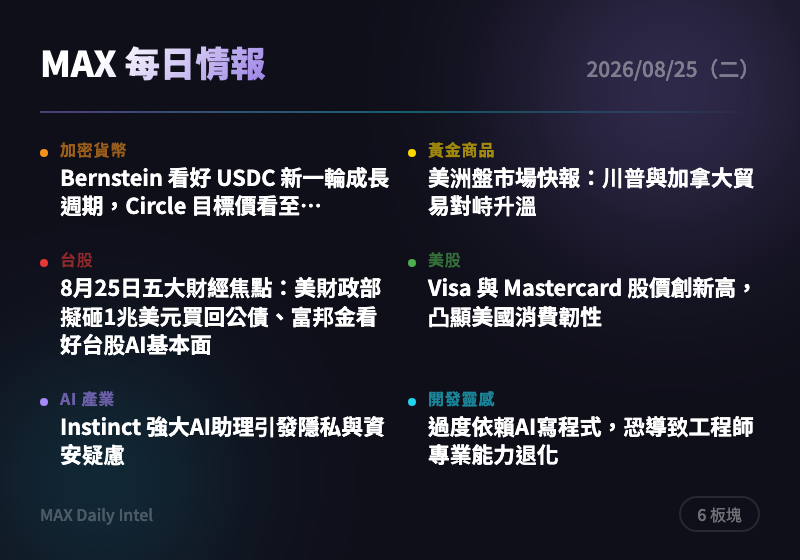
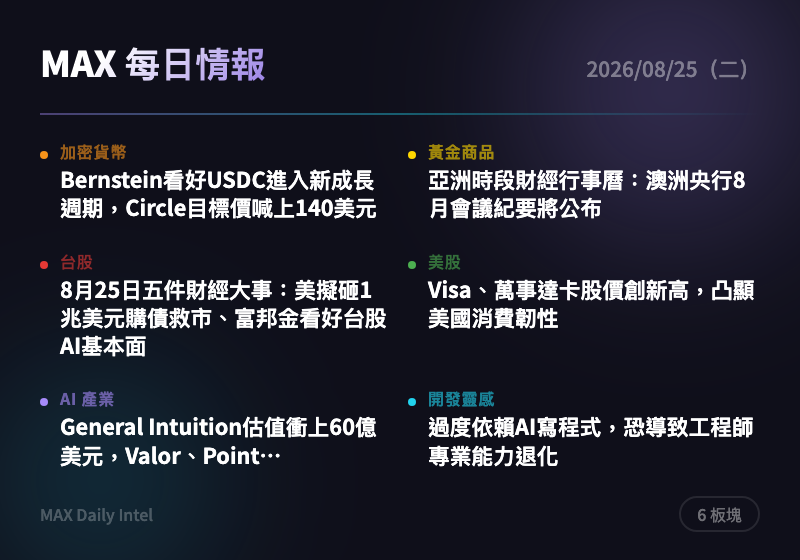
intel: 2026-08-25 每日情報自動生成

diff --git a/docs/2026-08-25.html b/docs/2026-08-25.html
@@ -318,14 +318,14 @@
     </div>
     <div class="news-card">
       <div class="source">CoinTelegraph</div>
-      <h3><a href="https://cointelegraph.com/news/bernstein-circle-usdc-growth-140-price-target?utm_source=rss_feed&utm_medium=rss&utm_campaign=rss_partner_inbound" target="_blank" rel="noopener">Bernstein 看好 USDC 新一輪成長週期，Circle 目標價看至140美元</a></h3>
-      <div class="summary">Bernstein 指出 USDC 供給量七天內增加約20億美元，顯示交易活動升溫，帶動 Circle 股價上看空間。此為穩定幣賽道資金回流的訊號，顯示機構對穩定幣需求持續增溫。可留意 Circle (Circle) 股價後續評等調整動向。</div>
-      <div class="tags"><span class="tag">穩定幣</span><span class="tag">USDC</span><span class="tag">Circle</span></div>
+      <h3><a href="https://cointelegraph.com/news/bernstein-circle-usdc-growth-140-price-target?utm_source=rss_feed&utm_medium=rss&utm_campaign=rss_partner_inbound" target="_blank" rel="noopener">Bernstein看好USDC進入新成長週期，Circle目標價喊上140美元</a></h3>
+      <div class="summary">Bernstein分析指出，USDC供給量七天內增加約20億美元，交易活動明顯升溫，因此將Circle目標股價上修至140美元。此舉顯示華爾街對穩定幣龍頭的成長動能維持樂觀，即使監管法案（Clarity Act）未通過也不影響其成長路徑。可留意Circle（CRCL）股價後續評等調整帶動的波動。</div>
+      <div class="tags"><span class="tag">穩定幣</span><span class="tag">USDC</span><span class="tag">Circle</span><span class="tag">華爾街評等</span></div>
     </div>
     <div class="news-card">
       <div class="source">CoinDesk</div>
-      <h3><a href="https://www.coindesk.com/markets/2026/08/24/bitcoin-nears-usd80-000-but-analysts-say-the-next-pullback-will-be-key" target="_blank" rel="noopener">比特幣 (Bitcoin) 逼近8萬美元大關</a></h3>
-      <div class="summary">比特幣近期反彈強勁，價格逼近5月以來未見的8萬美元關卡。分析師警告，接下來若出現回檔，將是判斷這波多頭是否能延續的關鍵指標。建議留意成交量與短線支撐是否守穩，勿追高。</div>
+      <h3><a href="https://www.coindesk.com/markets/2026/08/24/bitcoin-nears-usd80-000-but-analysts-say-the-next-pullback-will-be-key" target="_blank" rel="noopener">比特幣逼近8萬美元，分析師：下一次回檔才是關鍵</a></h3>
+      <div class="summary">比特幣本週距離5月以來未見的8萬美元大關僅一步之遙，帶動市場情緒轉多。分析師提醒，真正考驗多頭是否站穩的，將是價格觸頂後的回檔幅度，而非單純衝高。若回檔守住關鍵支撐，才有機會確立新一輪多頭格局，建議留意短線獲利了結風險。</div>
       <div class="tags"><span class="tag">比特幣</span><span class="tag">加密貨幣</span><span class="tag">技術分析</span></div>
     </div>
   </section>
@@ -338,15 +338,15 @@
     </div>
     <div class="news-card">
       <div class="source">ForexLive</div>
-      <h3><a href="https://investinglive.com/news/investinglive-americas-market-news-wrap-trump-and-canada-trade-threats-0/" target="_blank" rel="noopener">美洲盤市場快報：川普與加拿大貿易對峙升溫</a></h3>
-      <div class="summary">川普 (Trump) 要求加拿大官員「乖乖聽話」，財政部長貝森特 (Bessent) 強調對伊朗的制裁涵蓋中國在內，川普同時揚言課徵50%關稅。多線地緣政治壓力同時升溫，牽動避險資產與匯市波動。建議關注黃金與美元指數在制裁與關稅消息下的連動反應。</div>
-      <div class="tags"><span class="tag">地緣政治</span><span class="tag">貿易戰</span><span class="tag">制裁</span></div>
+      <h3><a href="https://investinglive.com/news/economic-and-event-calendar-in-asia-25-august-2026-rba-august-meeting-minutes/" target="_blank" rel="noopener">亞洲時段財經行事曆：澳洲央行8月會議紀要將公布</a></h3>
+      <div class="summary">澳洲央行（RBA）將公布8月會議紀要，市場關注紀要中是否透露升息與暫停升息之間的辯論細節，這將是本週亞洲盤最重要的央行動向指標。除此之外，本週亞洲數據行事曆相對清淡。建議關注紀要內容對澳幣及區域利率預期的影響。</div>
+      <div class="tags"><span class="tag">央行</span><span class="tag">澳洲央行</span><span class="tag">利率</span><span class="tag">亞洲市場</span></div>
     </div>
     <div class="news-card">
       <div class="source">ForexLive</div>
-      <h3><a href="https://investinglive.com/news/is-the-us-canada-deal-the-classic-fifth-stage-of-trump-negotiations/" target="_blank" rel="noopener">美加貿易協議是否重演川普談判經典「第五階段」戲碼</a></h3>
-      <div class="summary">美國副總統范斯 (Vance) 表示美加貿易談判仍在進行，出現局勢緩和跡象。加拿大反關稅措施延至9月7日才生效，而川普 (Trump) 揚言的汽車零件關稅則排到明年1月，顯示雙方都不想把情勢逼到絕境。這暗示美加貿易緊張情勢短期內或有轉圜空間，市場可留意後續談判進展。</div>
-      <div class="tags"><span class="tag">地緣政治</span><span class="tag">貿易戰</span><span class="tag">美加關係</span></div>
+      <h3><a href="https://investinglive.com/news/investinglive-americas-market-news-wrap-trump-and-canada-trade-threats-0/" target="_blank" rel="noopener">美洲盤市場快訊：川普升高對加拿大貿易威脅</a></h3>
+      <div class="summary">川普公開批評加拿大官員言論強硬，同時財政部長貝森特強調對伊朗的制裁「無人能置身事外」，甚至暗示連中國都在範圍內；川普並揚言對加拿大汽車零件加徵50%關稅。地緣政治與貿易緊張同步升溫，是近期推升黃金避險買盤的主要背景。建議關注美加關係後續發展及對美元、黃金走勢的連動影響。</div>
+      <div class="tags"><span class="tag">地緣政治</span><span class="tag">貿易戰</span><span class="tag">美加關係</span><span class="tag">黃金避險</span></div>
     </div>
   </section>
 
@@ -358,15 +358,15 @@
     </div>
     <div class="news-card">
       <div class="source">經濟日報</div>
-      <h3><a href="https://money.udn.com/money/story/5607/9711854" target="_blank" rel="noopener">8月25日五大財經焦點：美財政部擬砸1兆美元買回公債、富邦金看好台股AI基本面</a></h3>
-      <div class="summary">美國財政部考慮動用近1兆美元國庫閒置資金買回長天期公債，市場預期將壓抑長債殖利率；同時富邦金總座韓蔚廷看好台股AI基本面，預期Q4高檔震盪機率大。兩則消息分別牽動全球利率環境與台股資金面，對台股短線情緒有正面支撐。可留意公債殖利率變化對資金行情的傳導效果。</div>
-      <div class="tags"><span class="tag">台股</span><span class="tag">美債</span><span class="tag">AI</span><span class="tag">金融股</span></div>
+      <h3><a href="https://money.udn.com/money/story/5607/9711854" target="_blank" rel="noopener">8月25日五件財經大事：美擬砸1兆美元購債救市、富邦金看好台股AI基本面</a></h3>
+      <div class="summary">今日焦點包括美國財政部評估動用近1兆美元TGA帳戶資金支撐長債買回計畫，以及富邦金總座韓蔚廷看好台股AI基本面，預期Q4指數高檔震盪機率大；另外英特爾先進封裝再添SK海力士HBM大單。多項消息同時牽動台股資金面與AI供應鏈類股情緒，建議留意美債政策對全球流動性的外溢效果，以及AI供應鏈個股是否受惠。</div>
+      <div class="tags"><span class="tag">台股</span><span class="tag">美債</span><span class="tag">AI供應鏈</span><span class="tag">半導體</span></div>
     </div>
     <div class="news-card">
       <div class="source">經濟日報</div>
-      <h3><a href="https://money.udn.com/money/story/5607/9711726" target="_blank" rel="noopener">台股大盤成交量創四個半月新低，摜破季線與45K關卡</a></h3>
-      <div class="summary">台股昨日大跌461點收44,762點，同時跌破季線與45,000點大關，成交值萎縮至6,562億元，創四個半月新低量。法人指出短線修正趨勢未變，需先回測月線44,144點支撐，量縮價跌反映市場觀望氣氛濃厚。建議短線保守，留意月線支撐是否守穩。</div>
-      <div class="tags"><span class="tag">台股</span><span class="tag">大盤</span><span class="tag">技術分析</span></div>
+      <h3><a href="https://money.udn.com/money/story/5607/9711726" target="_blank" rel="noopener">台股爆量急凍！大盤成交量創四個半月新低</a></h3>
+      <div class="summary">台股昨日開高走低大跌461點，收44,762點，同步跌破季線與45,000點大關，成交值萎縮至6,562億元，為四個半月來最低量，顯示市場觀望氣氛濃厚。法人研判短線或有反彈空間，但修正趨勢未變，後續可能回測月線44,144點支撐。建議留意量能是否持續萎縮，作為判斷反彈力道的重要指標。</div>
+      <div class="tags"><span class="tag">台股</span><span class="tag">大盤動能</span><span class="tag">成交量</span><span class="tag">技術面</span></div>
     </div>
   </section>
 
@@ -378,15 +378,15 @@
     </div>
     <div class="news-card">
       <div class="source">MarketWatch</div>
-      <h3><a href="https://www.marketwatch.com/story/visa-and-mastercard-shares-hit-fresh-records-underscoring-a-resilient-u-s-consumer-ef328548?mod=mw_rss_topstories" target="_blank" rel="noopener">Visa 與 Mastercard 股價創新高，凸顯美國消費韌性</a></h3>
-      <div class="summary">兩大信用卡巨頭股價雙雙創下歷史新高，反映整體消費支出依然強勁，即便消費者在選擇上更趨謹慎。此為美國經濟軟著陸的正面訊號，顯示消費端尚未出現明顯疲態。可作為觀察美國內需韌性的領先指標。</div>
-      <div class="tags"><span class="tag">美股</span><span class="tag">消費</span><span class="tag">支付產業</span></div>
+      <h3><a href="https://www.marketwatch.com/story/visa-and-mastercard-shares-hit-fresh-records-underscoring-a-resilient-u-s-consumer-ef328548?mod=mw_rss_topstories" target="_blank" rel="noopener">Visa、萬事達卡股價創新高，凸顯美國消費韌性</a></h3>
+      <div class="summary">Visa與萬事達卡股價雙雙創下歷史新高，反映即便消費者在採購項目上更加精打細算，整體消費支出總量依然強勁。此現象顯示美國消費動能尚未明顯降溫，為觀察美國經濟軟著陸機率的重要指標之一，可留意後續零售與信用卡消費數據是否延續此趨勢。</div>
+      <div class="tags"><span class="tag">美股</span><span class="tag">消費韌性</span><span class="tag">信用卡</span><span class="tag">總體經濟</span></div>
     </div>
     <div class="news-card">
       <div class="source">MarketWatch</div>
-      <h3><a href="https://www.marketwatch.com/story/heres-how-overvalued-the-stock-market-really-is-f26540c5?mod=mw_rss_topstories" target="_blank" rel="noopener">分析：美股估值過高程度恐超乎想像</a></h3>
-      <div class="summary">文章指出當前美股估值已被拉伸至相當高的水準，市場可能經不起太多利空衝擊。此警訊值得投資人在追高時提高警覺，尤其在AI題材股評價已充分反映未來成長的情況下。建議適度分散配置，留意估值回歸風險。</div>
-      <div class="tags"><span class="tag">美股</span><span class="tag">估值</span><span class="tag">風險</span></div>
+      <h3><a href="https://www.marketwatch.com/story/heres-how-overvalued-the-stock-market-really-is-f26540c5?mod=mw_rss_topstories" target="_blank" rel="noopener">美股到底貴多少？分析：目前估值已相當緊繃</a></h3>
+      <div class="summary">文章指出當前美股估值處於極端偏高水準，市場承受風險的緩衝空間已相當有限，稍有意外衝擊就可能引發劇烈修正。在Nvidia財報等重大事件前，投資人應留意高估值環境下的下檔風險，適度控管部位曝險。</div>
+      <div class="tags"><span class="tag">美股</span><span class="tag">估值風險</span><span class="tag">市場情緒</span></div>
     </div>
   </section>
 
@@ -398,15 +398,15 @@
     </div>
     <div class="news-card">
       <div class="source">TechCrunch AI</div>
-      <h3><a href="https://techcrunch.com/2026/08/24/instincts-powerful-ai-assistant-is-raising-privacy-and-security-concerns/" target="_blank" rel="noopener">Instinct 強大AI助理引發隱私與資安疑慮</a></h3>
-      <div class="summary">早期測試者對 Instinct AI助理的能力讚不絕口，但其擁有的廣泛存取權限、寬鬆條款以及代替用戶行動的能力，也引發不小的隱私與安全疑慮。此案例凸顯AI代理人普及化過程中「便利與風險」的兩難，值得產業與監管單位持續關注。建議企業導入類似工具前先評估資料存取範圍。</div>
-      <div class="tags"><span class="tag">AI</span><span class="tag">隱私</span><span class="tag">資安</span></div>
+      <h3><a href="https://techcrunch.com/2026/08/24/valor-point72-back-general-intuition-at-6b-valuation-as-ai-startup-pushes-into-robotics/" target="_blank" rel="noopener">General Intuition估值衝上60億美元，Valor、Point72領投布局機器人</a></h3>
+      <div class="summary">打造「通用空間時間導航」基礎模型的新創公司General Intuition，正洽談以60億美元投前估值進行新一輪募資，投資方包含Valor Ventures、Point72 Ventures與Seven Seven Six等知名創投。此輪估值大幅躍升，反映資本市場對AI結合機器人（Embodied AI）賽道的高度期待，可視為觀察AI硬體與機器人投資熱度的風向指標。</div>
+      <div class="tags"><span class="tag">AI</span><span class="tag">機器人</span><span class="tag">新創募資</span><span class="tag">估值</span></div>
     </div>
     <div class="news-card">
       <div class="source">TechCrunch AI</div>
-      <h3><a href="https://techcrunch.com/2026/08/24/openai-is-building-an-ai-agent-for-everything-will-everyone-use-them/" target="_blank" rel="noopener">OpenAI 全面佈局 AI 代理人，能否讓大眾買單成關鍵</a></h3>
-      <div class="summary">OpenAI 正將 AI agent（代理人）技術從軟體工程師擴展到一般大眾使用場景，試圖打造無所不在的智慧助理。此舉牽動 AI 應用普及化的下一步戰局，也考驗使用者對自動化代理的信任與採用意願。值得關注其產品化落地速度與競爭對手（如Google、Anthropic）的因應策略。</div>
-      <div class="tags"><span class="tag">AI</span><span class="tag">OpenAI</span><span class="tag">AI代理人</span></div>
+      <h3><a href="https://techcrunch.com/2026/08/24/openai-is-building-an-ai-agent-for-everything-will-everyone-use-them/" target="_blank" rel="noopener">OpenAI全面布局AI代理人，能否人人都用？</a></h3>
+      <div class="summary">OpenAI正積極推動AI代理人（AI Agent）從軟體工程師的專屬工具，擴展到一般大眾日常使用場景，企圖打造「人人可用」的代理人生態。此舉若成功將重新定義AI產品的使用門檻與市場規模，是觀察AI應用普及化進程的重要指標，建議關注OpenAI後續產品發布對整體AI應用市場的排擠效應。</div>
+      <div class="tags"><span class="tag">AI</span><span class="tag">OpenAI</span><span class="tag">AI代理人</span><span class="tag">產品策略</span></div>
     </div>
   </section>
 
@@ -419,14 +419,14 @@
     <div class="news-card">
       <div class="source">Hacker News Best</div>
       <h3><a href="https://larsfaye.com/articles/ai-coding-will-prevent-expertise" target="_blank" rel="noopener">過度依賴AI寫程式，恐導致工程師專業能力退化</a></h3>
-      <div class="summary">文章警告，隨著開發者愈來愈依賴AI協助寫程式，長期恐造成基礎程式能力與除錯能力的退化。此議題在Hacker News引發近400則熱烈討論，反映開發者社群對AI輔助開發的長期影響仍有高度疑慮。建議團隊在導入AI工具的同時，仍應保留基礎能力訓練機制。</div>
-      <div class="tags"><span class="tag">AI</span><span class="tag">軟體開發</span><span class="tag">職涯</span></div>
+      <div class="summary">文章警告，開發者若長期仰賴AI生成程式碼，可能逐漸喪失獨立除錯、架構設計等核心工程能力，長期恐造成整體產業專業素養下滑。此議題在Hacker News引發熱烈討論（409則留言），反映開發社群對AI輔助程式設計的隱憂正在擴大，建議團隊在導入AI工具時同步強化人員的基礎能力訓練。</div>
+      <div class="tags"><span class="tag">AI</span><span class="tag">軟體工程</span><span class="tag">開發者生態</span><span class="tag">技能退化</span></div>
     </div>
     <div class="news-card">
       <div class="source">Hacker News Best</div>
-      <h3><a href="https://www.ft.com/content/5ee49718-c258-4f01-aa32-7e5b76ae5245" target="_blank" rel="noopener">Anthropic 最強AI模型難吸引用戶，便宜工具反而更受歡迎</a></h3>
-      <div class="summary">報導指出 Anthropic (Anthropic) 旗艦模型在用戶採用率上表現不如預期，反而是價格更親民的替代工具成長更快。這反映AI市場競爭已從「誰的模型最強」轉向「性價比與生態整合」，對高階模型廠商的商業模式構成壓力。值得關注 Anthropic 後續定價與產品策略的調整。</div>
-      <div class="tags"><span class="tag">AI</span><span class="tag">Anthropic</span><span class="tag">市場競爭</span></div>
+      <h3><a href="https://www.ft.com/content/5ee49718-c258-4f01-aa32-7e5b76ae5245" target="_blank" rel="noopener">Anthropic最強模型難吸引用戶，便宜工具反而更受歡迎</a></h3>
+      <div class="summary">報導指出，儘管Anthropic推出效能頂尖的AI模型，但在用戶採用度上卻不敵價格更低廉的競品工具，凸顯AI市場正出現「效能與價格脫鉤」的競爭態勢。此現象對高階模型的商業化策略是一大警訊，值得持續關注定價策略調整或差異化功能是否能扭轉頹勢。</div>
+      <div class="tags"><span class="tag">AI</span><span class="tag">Anthropic</span><span class="tag">Claude</span><span class="tag">市場競爭</span></div>
     </div>
   </section>
 

diff --git a/docs/cards/2026-08-25-card.html b/docs/cards/2026-08-25-card.html
@@ -23,11 +23,11 @@ body{width:400px;height:280px;font-family:'Noto Sans TC',-apple-system,sans-seri
 <div class="content">
 <div class="top-row"><span class="title">MAX 每日情報</span><span class="date">2026/08/25（二）</span></div>
 <div class="divider"></div>
-<div class="grid"><div class="cell"><div class="dot" style="background:#f7931a"></div><div><div class="label" style="color:#f7931a">加密貨幣</div><div class="headline">Bernstein 看好 USDC 新一輪成長週期，Circle 目標價看至…</div></div></div>
-<div class="cell"><div class="dot" style="background:#ffd700"></div><div><div class="label" style="color:#ffd700">黃金商品</div><div class="headline">美洲盤市場快報：川普與加拿大貿易對峙升溫</div></div></div>
-<div class="cell"><div class="dot" style="background:#e53935"></div><div><div class="label" style="color:#e53935">台股</div><div class="headline">8月25日五大財經焦點：美財政部擬砸1兆美元買回公債、富邦金看好台股AI基本面</div></div></div>
-<div class="cell"><div class="dot" style="background:#4caf50"></div><div><div class="label" style="color:#4caf50">美股</div><div class="headline">Visa 與 Mastercard 股價創新高，凸顯美國消費韌性</div></div></div>
-<div class="cell"><div class="dot" style="background:#a78bfa"></div><div><div class="label" style="color:#a78bfa">AI 產業</div><div class="headline">Instinct 強大AI助理引發隱私與資安疑慮</div></div></div>
+<div class="grid"><div class="cell"><div class="dot" style="background:#f7931a"></div><div><div class="label" style="color:#f7931a">加密貨幣</div><div class="headline">Bernstein看好USDC進入新成長週期，Circle目標價喊上140美元</div></div></div>
+<div class="cell"><div class="dot" style="background:#ffd700"></div><div><div class="label" style="color:#ffd700">黃金商品</div><div class="headline">亞洲時段財經行事曆：澳洲央行8月會議紀要將公布</div></div></div>
+<div class="cell"><div class="dot" style="background:#e53935"></div><div><div class="label" style="color:#e53935">台股</div><div class="headline">8月25日五件財經大事：美擬砸1兆美元購債救市、富邦金看好台股AI基本面</div></div></div>
+<div class="cell"><div class="dot" style="background:#4caf50"></div><div><div class="label" style="color:#4caf50">美股</div><div class="headline">Visa、萬事達卡股價創新高，凸顯美國消費韌性</div></div></div>
+<div class="cell"><div class="dot" style="background:#a78bfa"></div><div><div class="label" style="color:#a78bfa">AI 產業</div><div class="headline">General Intuition估值衝上60億美元，Valor、Point…</div></div></div>
 <div class="cell"><div class="dot" style="background:#22d3ee"></div><div><div class="label" style="color:#22d3ee">開發靈感</div><div class="headline">過度依賴AI寫程式，恐導致工程師專業能力退化</div></div></div></div>
 <div class="bottom-row"><span class="url">MAX Daily Intel</span><span class="badge">6 板塊</span></div>
 </div></body></html>
